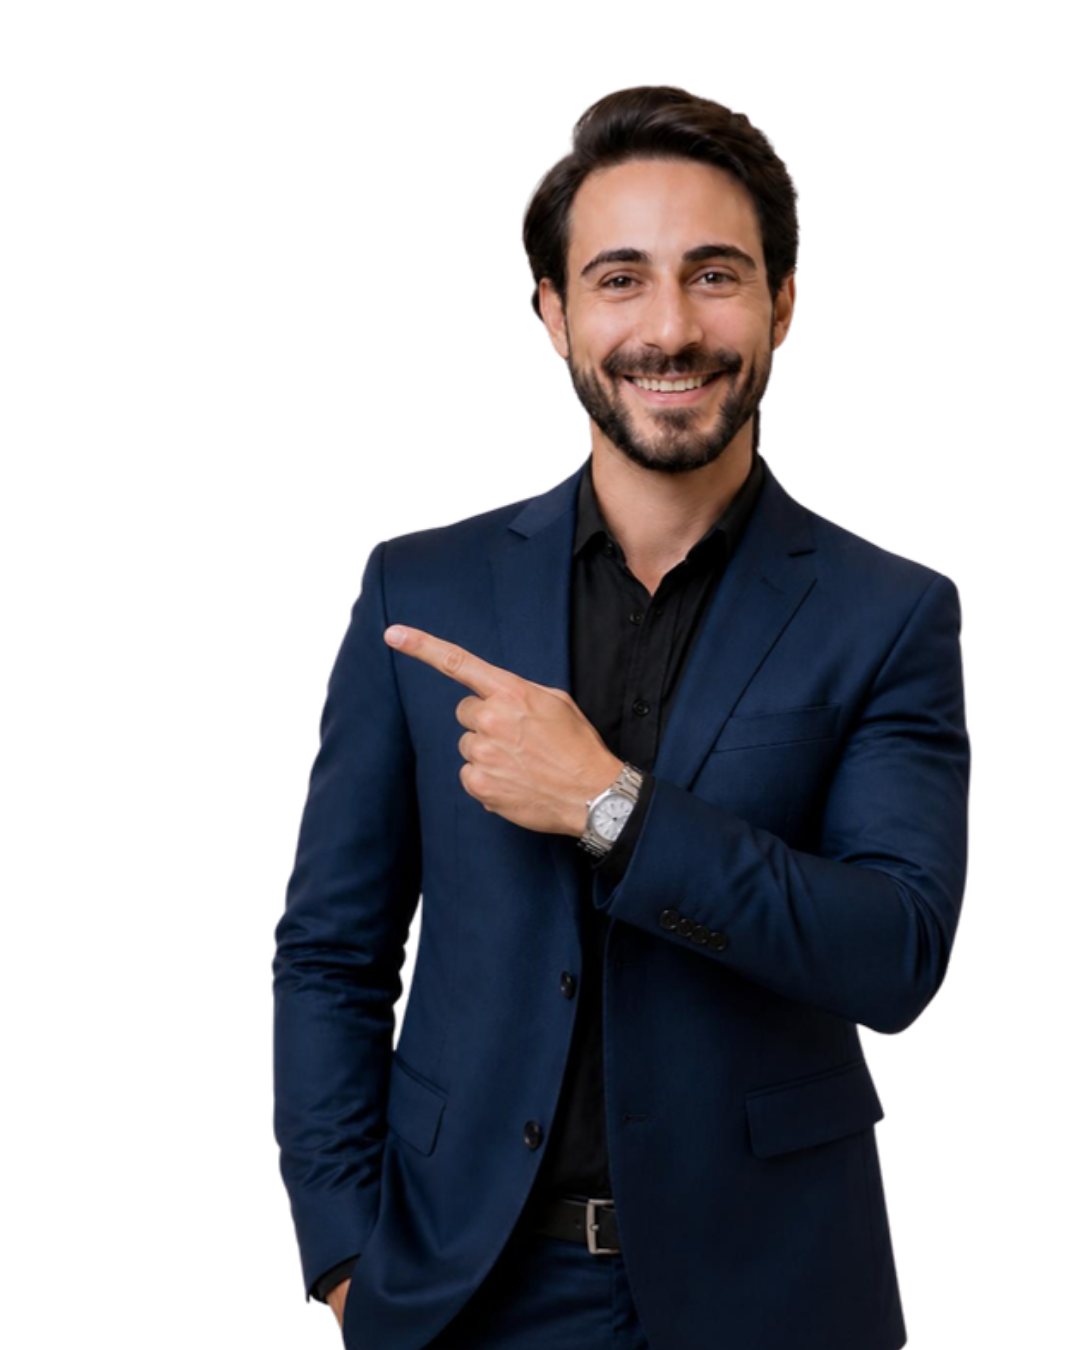
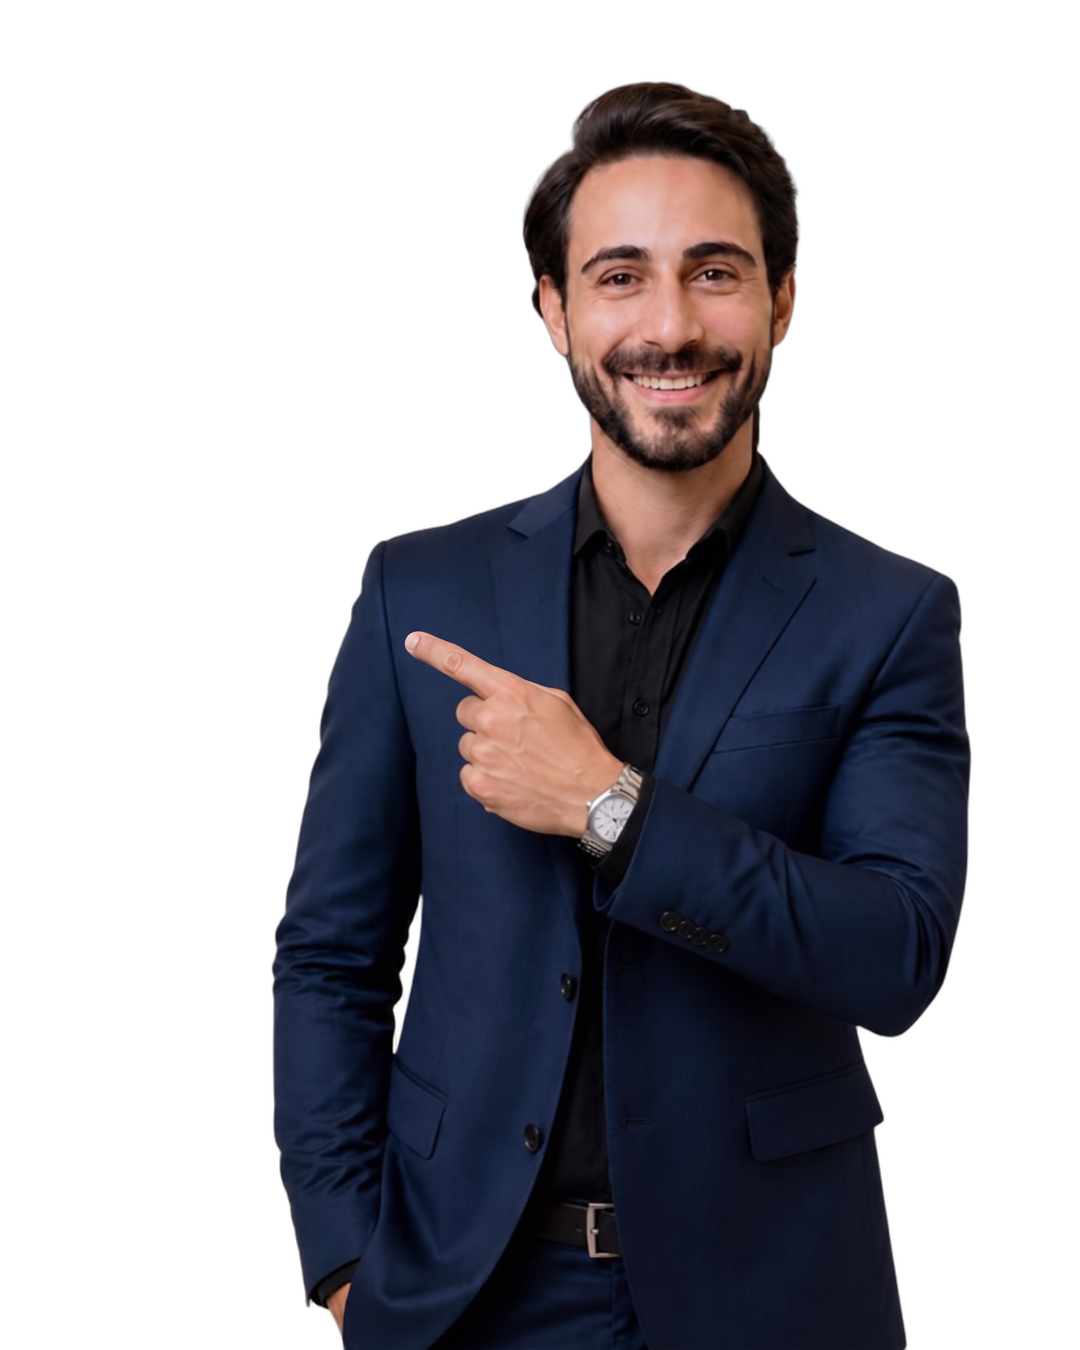
Capa de imóvel: foto do dono com dedo menor (regra do dono); refaz capa COD4367
Claude-Session: https://claude.ai/code/session_014nbP29vyY3VypJGiymd4bb

diff --git a/docs/posicionamento/ESTILO-CARROSSEL.md b/docs/posicionamento/ESTILO-CARROSSEL.md
@@ -102,7 +102,7 @@ Lucide (traço fino, na cor da marca). Nomes úteis: `house`, `car`, `hand-coins
 Quando o dono mandar fotos de um imóvel, usar sempre este modelo. Exemplo: `carrosseis/2026-10-15-terra-nova-casa/`.
 - **Fotos:** remover marca d'água de terceiros com LaMa (ONNX) e aumentar a resolução 2x com ESRGAN (`2xNomosUni`), com ajuste de cor leve e natural (sem HDR nem cantos escuros). Nunca usar borrão ou inpaint simples, porque deixa rastro.
 - **Capa:**
-  - O dono aparece à esquerda, apontando (`apontando.png` espelhado).
+  - O dono aparece à esquerda, apontando (`apontando.png` espelhado). **Usar SEMPRE a versão com o dedo menor** (`assets/boneco-3d/realista/apontando-dedo-menor.png`, copiada como `img/apontando.png`) — a foto antiga do dedo indicador enorme está proibida (dono, 2026-11-23).
   - Ao fundo, **duas fotos mescladas sem borda**: em cima, o ambiente de destaque; embaixo, o segundo destaque, com degradê entre elas.
   - Sombra só na faixa do título.
   - Texto em cima: "Olha o que eu encontrei pra você…" em Playfair itálico; título em Anton **numa linha só**, com o destaque em azul; e 📍 localização com o **pino vermelho** (#FF3B30).

diff --git a/.claude/skills/publicar-imovel/SKILL.md b/.claude/skills/publicar-imovel/SKILL.md
@@ -9,6 +9,7 @@ description: "Quando o dono manda fotos + dados de um imóvel: monta o carrossel
 
 ## 1. Carrossel (modelo em `docs/posicionamento/ESTILO-CARROSSEL.md`)
 - Pasta `docs/posicionamento/carrosseis/AAAA-MM-DD-<bairro>/`. Copiar `laminas.html` e `img/` do último imóvel e trocar textos (código só no selo de cima).
+- **Foto do dono na capa:** sempre `docs/posicionamento/assets/boneco-3d/realista/apontando-dedo-menor.png` copiada para `img/apontando.png` (a versão antiga do dedo enorme é proibida — dono, 2026-11-23). Conferir antes de renderizar.
 - Fotos: LaMa se houver marca de terceiros; ESRGAN 2x (`2xNomosUni`, ONNX do HuggingFace `nesaorg/2xNomosUni_esrgan_multijpg_fp32_opset17`, em blocos de 256 px, dimensões pares). Máx. 10 lâminas (capa + 8 + final).
 - Render: `node .claude/design/tools/renderizar-laminas-html.mjs <laminas.html>` (com `NODE_EXTRA_CA_CERTS=/root/.ccr/ca-bundle.crt NODE_USE_ENV_PROXY=1`).
 - **Capa do Marketplace** = capa sem `<img src="img/apontando.png">` → `capa-marketplace.jpg`.
